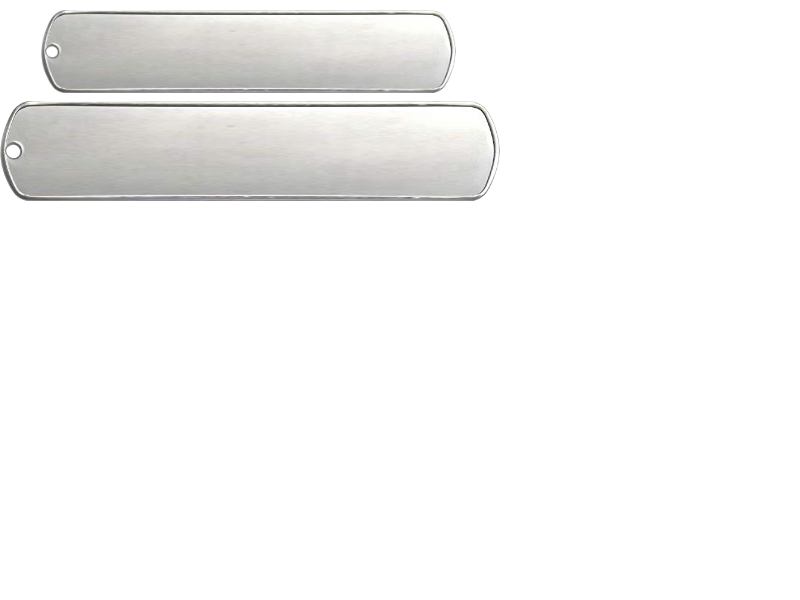
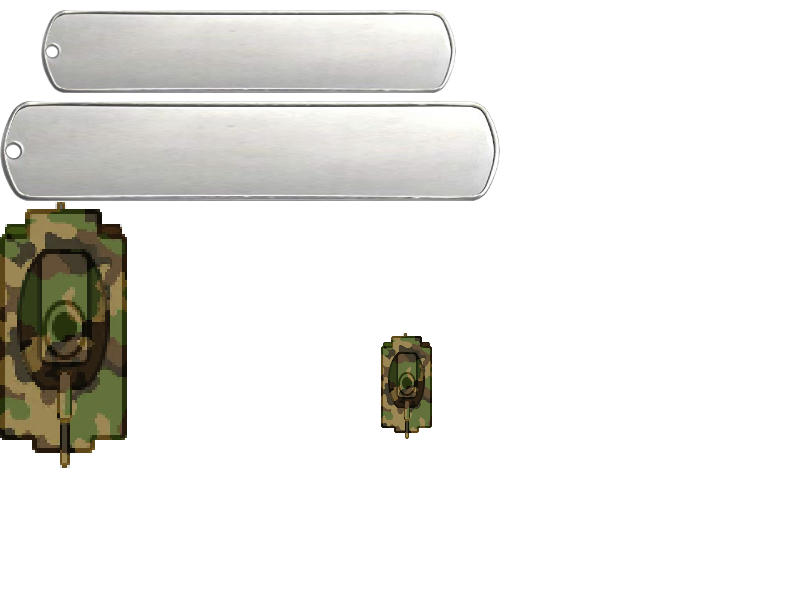
Added visual effects when the player joins the game

Changed region(s): [[0.0, 0.33, 0.1562, 0.78], [0.4688, 0.54, 0.5625, 0.72]]

diff --git a/SFML Projects/SFML_Basic_Concepts/src/PlayerJoinScreen.cpp b/SFML Projects/SFML_Basic_Concepts/src/PlayerJoinScreen.cpp
@@ -6,6 +6,19 @@ PlayerJoinScreen::PlayerJoinScreen(sf::Texture const& t_guiSheet, sf::Texture co
 	m_backButton(t_guiSheet, t_font, "Back", m_BACK_BUTTON_POS)
 {
 	m_continueButton.setLocked(true);
+
+	sf::IntRect textureRext{ 0, 202, 127, 266 };
+	for (int i = 0; i < MAX_PLAYERS; i++)
+	{
+		m_playerSprites[i].setTexture(t_guiSheet);
+		m_playerSprites[i].setTextureRect(textureRext);
+		m_playerSprites[i].setOrigin(textureRext.width / 2.0f, textureRext.height / 2.0f);
+		m_playerSprites[i].setPosition((ScreenSize::s_width / (MAX_PLAYERS + 1)) * (i + 1) , ScreenSize::s_height / 2.0f);
+		m_playerSprites[i].setColor(sf::Color{ 180, 180, 180, 180});
+	}
+
+	m_playerSelectBackground.setSize({ ScreenSize::s_width / 1.17f, ScreenSize::s_height / 2.2f });
+	m_playerSelectBackground.setPosition(100.0f, ScreenSize::s_height / 4.0f);
 }
 
 void PlayerJoinScreen::processEvents(sf::Event t_event, GameState& t_gameState, Tank t_tanks[], int& t_numberOfPlayers)
@@ -26,7 +39,8 @@ void PlayerJoinScreen::processEvents(sf::Event t_event, GameState& t_gameState, 
 		// Keyboard presses
 		if (sf::Event::KeyReleased == t_event.type)
 		{
-			if (sf::Keyboard::Period == t_event.type)
+			// PLAYER1 SPECIFIC
+			if (sf::Keyboard::Period == t_event.key.code)
 			{
 				// If there's no players in the game, add player1 with keyboard config
 				if (0 == t_numberOfPlayers)
@@ -34,9 +48,12 @@ void PlayerJoinScreen::processEvents(sf::Event t_event, GameState& t_gameState, 
 					t_tanks[0].setControlType(ControlType::Keyboard, ControlScheme::ArrowKeys);
 					t_numberOfPlayers++;
 					std::cout << t_numberOfPlayers;
+					m_playerSprites[0].setColor(sf::Color::Green);
+					m_continueButton.setLocked(false);
 				}
 				// Else if there is at least one player but they're in control config, switch to keyboard
-				else if (ControlType::Controller == t_tanks[0].getControlType())
+				else if (t_numberOfPlayers > 0
+						&& ControlType::Controller == t_tanks[0].getControlType())
 				{
 					t_tanks[0].setControlType(ControlType::Keyboard, ControlScheme::ArrowKeys);
 					std::cout << t_numberOfPlayers;
@@ -47,8 +64,38 @@ void PlayerJoinScreen::processEvents(sf::Event t_event, GameState& t_gameState, 
 				{
 					t_numberOfPlayers--;
 					std::cout << t_numberOfPlayers;
+					m_playerSprites[0].setColor(sf::Color{ 180, 180, 180, 180 });
+					m_continueButton.setLocked(true);
 				}
 			}
+			// PLAYER2 SPECIFIC
+			else if (sf::Keyboard::W == t_event.key.code)
+			{
+				// If there's 1 player in the game, add player2 with keyboard config
+				if (1 == t_numberOfPlayers)
+				{
+					t_tanks[1].setControlType(ControlType::Keyboard, ControlScheme::YGHJKeys);
+					t_numberOfPlayers++;
+					std::cout << t_numberOfPlayers;
+					m_playerSprites[1].setColor(sf::Color::Red);
+				}
+				// Else if there is at least one player but they're in control config, switch to keyboard
+				else if (t_numberOfPlayers > 1
+						 && ControlType::Controller == t_tanks[1].getControlType())
+				{
+					t_tanks[1].setControlType(ControlType::Keyboard, ControlScheme::YGHJKeys);
+					std::cout << t_numberOfPlayers;
+				}
+				// Else if there is only two players and they the last is in keyboard config, remove them from the game
+				else if (2 == t_numberOfPlayers
+					&& ControlType::Keyboard == t_tanks[1].getControlType())
+				{
+					t_numberOfPlayers--;
+					std::cout << t_numberOfPlayers;
+					m_playerSprites[1].setColor(sf::Color{ 180, 180, 180, 180 });
+				}
+			}
+
 		}
 	}
 }
@@ -62,6 +109,13 @@ void PlayerJoinScreen::draw(sf::RenderWindow& t_window)
 	t_window.draw(m_background);
 	m_continueButton.draw(t_window);
 	m_backButton.draw(t_window);
+
+	t_window.draw(m_playerSelectBackground);
+
+	for (int i = 0; i < MAX_PLAYERS; i++)
+	{
+		t_window.draw(m_playerSprites[i]);
+	}
 }
 
 void PlayerJoinScreen::setup()

diff --git a/SFML Projects/SFML_Basic_Concepts/src/Game.cpp b/SFML Projects/SFML_Basic_Concepts/src/Game.cpp
@@ -29,7 +29,12 @@ Game::Game() :
 		{m_TANK_OFFSET, m_TANK_OFFSET},
 		{m_TANK_OFFSET, static_cast<float>(ScreenSize::s_height) - m_TANK_OFFSET},
 		{static_cast<float>(ScreenSize::s_width) - m_TANK_OFFSET, m_TANK_OFFSET},
-		{static_cast<float>(ScreenSize::s_width) - m_TANK_OFFSET, static_cast<float>(ScreenSize::s_height) - m_TANK_OFFSET} }
+		{static_cast<float>(ScreenSize::s_width) - m_TANK_OFFSET, static_cast<float>(ScreenSize::s_height) - m_TANK_OFFSET} },
+		m_tanks{
+			{m_texture, m_wallSprites, m_targets},
+			{m_texture, m_wallSprites, m_targets},
+			{m_texture, m_wallSprites, m_targets},
+			{m_texture, m_wallSprites, m_targets} }
 {
 	m_window.setVerticalSyncEnabled(true);
 
@@ -124,7 +129,7 @@ void Game::processGameEvents(sf::Event& event)
 		m_menuScreen.processEvents(event, m_gameState, m_window);
 		break;
 	case GameState::PlayerJoinScreen:
-		m_playerJoinScreen.processEvents(event, m_gameState);
+		m_playerJoinScreen.processEvents(event, m_gameState, m_tanks, m_numberOfPlayers);
 		break;
 	case GameState::ModeSelect:
 		m_modeSelectScreen.processEvents(event, m_gameState);
@@ -343,7 +348,7 @@ void Game::update(double dt)
 	// If the game is in the gameplay state
 	if (GameState::PlayerJoinScreen == m_gameState)
 	{
-		m_playerJoinScreen.update();
+		m_playerJoinScreen.update(m_tanks, m_numberOfPlayers);
 	}
 	else if (GameState::TargetPractice == m_gameState)
 	{

diff --git a/SFML Projects/SFML_Basic_Concepts/src/RoundStatsSaver.cpp b/SFML Projects/SFML_Basic_Concepts/src/RoundStatsSaver.cpp
@@ -10,7 +10,7 @@ void RoundStatsSaver::saveRoundStats(Stats t_stats)
 		YAML::Node newStatsData;
 		bool scorePlaced = false;
 
-		for (int i = 0; i < stats.size(); i++)
+		for (int i = 0; i < static_cast<int>(stats.size()); i++)
 		{
 			YAML::Node newNode(YAML::NodeType::Map);
 
@@ -65,7 +65,7 @@ Stats RoundStatsSaver::returnNthBestScore(int t_n)
 		{
 			YAML::Node& statsNode = fileNode["stats"].as<YAML::Node>();
 
-			if (t_n >= statsNode.size())
+			if (t_n >= static_cast<int>(statsNode.size()))
 			{
 				std::cout << "Error while reading game stats: There is no stats stored in position "
 					<< t_n << " in the file. Number of stats stored is " << statsNode.size() << "." << std::endl;

diff --git a/SFML Projects/SFML_Basic_Concepts/src/Tank.cpp b/SFML Projects/SFML_Basic_Concepts/src/Tank.cpp
@@ -20,7 +20,7 @@ Tank::Tank(sf::Texture const& t_texture, std::vector<sf::Sprite>& t_wallSprites,
 void Tank::update(double dt)
 {	
 	// Clamp the speed to a minimum and maximum speed
-	std::clamp(m_speed, -SPEED_LIMIT, SPEED_LIMIT);
+	float clamp = std::clamp(m_speed, -SPEED_LIMIT, SPEED_LIMIT); // Clamp variable is simply to remove warnings
 
 	m_previousPosition = m_tankBase.getPosition();
 	sf::Vector2f m_newPosition; // Create a variable for new position calculations

diff --git a/SFML Projects/SFML_Basic_Concepts/include/PlayerJoinScreen.h b/SFML Projects/SFML_Basic_Concepts/include/PlayerJoinScreen.h
@@ -24,6 +24,9 @@ private:
 	const sf::Vector2f m_BACK_BUTTON_POS{ (ScreenSize::s_width / 2.0f) - (GUIButton::s_WIDTH / 2.0f), (ScreenSize::s_height) - (GUIButton::s_HEIGHT * 1.5f) };
 	sf::Sprite m_background;
 
+	sf::RectangleShape m_playerSelectBackground;
+	sf::Sprite m_playerSprites[MAX_PLAYERS];
+
 	GUIButton m_continueButton;
 	GUIButton m_backButton;
 };

diff --git a/SFML Projects/SFML_Basic_Concepts/include/Game.h b/SFML Projects/SFML_Basic_Concepts/include/Game.h
@@ -156,6 +156,8 @@ protected:
 
 	XBox360Controller m_controller;
 
+	Tank m_tanks[MAX_PLAYERS];
+
 	// Audio
 	sf::SoundBuffer m_shotSoundBuffer;
 	sf::SoundBuffer m_explosionSoundBuffer;
